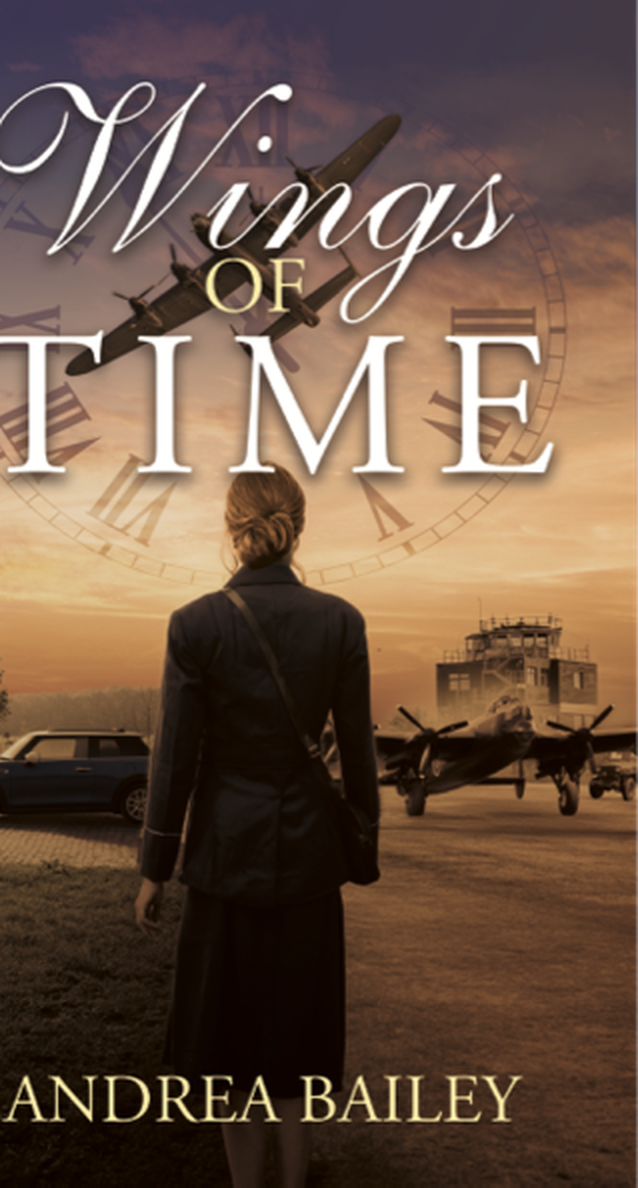
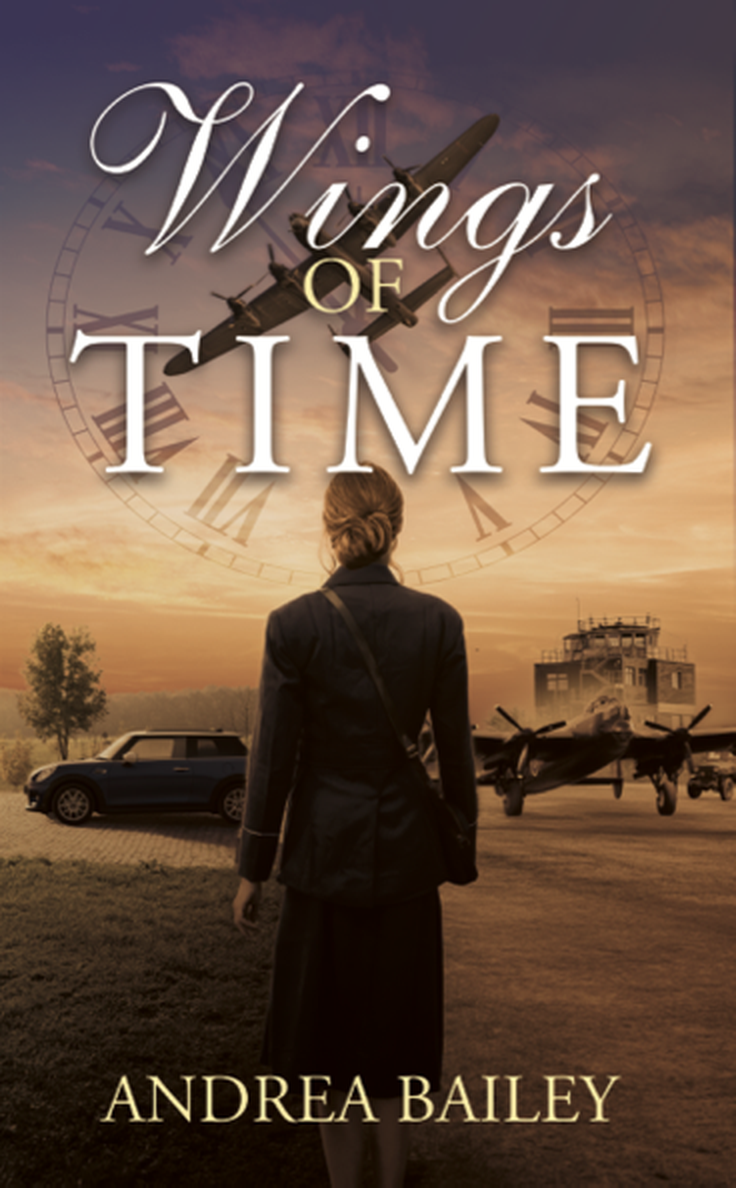
Show full book cover and remove plane illustrations
The hero cover image was a center crop that clipped the title and
artwork edges; re-extracted the full front cover from the wraparound.
Also removed the bomber and distant plane from the blurb background.

Generated with [Devin](https://devin.ai)

diff --git a/wings-of-time/app/components/AirfieldScene.tsx b/wings-of-time/app/components/AirfieldScene.tsx
@@ -2,32 +2,6 @@ import type { ReactNode } from "react";
 
 type Variant = "airfield" | "swirls" | "wing" | "feathers";
 
-const bomber = (
-  <g transform="translate(430 40) scale(1.1)">
-    <path d="M40 62 C70 52 200 48 300 50 C330 51 345 56 348 60 C345 64 330 69 300 70 C200 74 70 70 40 66 Z" />
-    <ellipse cx="310" cy="50" rx="16" ry="6" />
-    <path d="M120 55 L60 10 L75 8 L150 48 Z" />
-    <path d="M150 70 L75 110 L60 108 L120 63 Z" />
-    <rect x="95" y="30" width="18" height="10" rx="4" transform="rotate(-32 104 35)" />
-    <rect x="115" y="22" width="18" height="10" rx="4" transform="rotate(-32 124 27)" />
-    <rect x="95" y="84" width="18" height="10" rx="4" transform="rotate(32 104 89)" />
-    <rect x="115" y="92" width="18" height="10" rx="4" transform="rotate(32 124 97)" />
-    <path d="M48 58 L30 40 L40 38 L56 54 Z" />
-    <path d="M52 66 L34 82 L28 80 L44 62 Z" />
-    <path d="M52 60 L28 56 L28 60 L52 64 Z" />
-  </g>
-);
-
-const distantPlane = (
-  <g transform="translate(120 90) scale(0.45)">
-    <path d="M40 62 C70 52 200 48 300 50 C330 51 345 56 348 60 C345 64 330 69 300 70 C200 74 70 70 40 66 Z" />
-    <path d="M120 55 L60 10 L75 8 L150 48 Z" />
-    <path d="M150 70 L75 110 L60 108 L120 63 Z" />
-    <path d="M48 58 L30 40 L40 38 L56 54 Z" />
-    <path d="M52 66 L34 82 L28 80 L44 62 Z" />
-  </g>
-);
-
 const treeline = (
   <path d="M0 260 L0 220 L18 228 L30 205 L45 222 L62 198 L78 220 L95 208 L110 226 L128 202 L145 224 L160 210 L178 228 L195 200 L212 222 L230 212 L248 230 L265 204 L282 226 L300 214 L318 232 L335 206 L352 228 L370 216 L388 234 L405 208 L422 230 L440 218 L458 236 L475 210 L492 232 L510 220 L528 238 L545 212 L562 234 L580 222 L598 240 L615 214 L632 236 L650 224 L668 242 L685 216 L702 238 L720 226 L738 244 L755 218 L772 240 L790 228 L808 246 L825 220 L842 242 L860 230 L878 248 L895 222 L912 244 L930 232 L948 250 L965 224 L982 246 L1000 234 L1018 252 L1035 226 L1052 248 L1070 236 L1088 254 L1105 228 L1122 250 L1140 238 L1158 256 L1175 230 L1190 246 L1200 240 L1200 260 Z" />
 );
@@ -118,8 +92,6 @@ const feathers = (
 const variants: Record<Variant, ReactNode> = {
   airfield: (
     <>
-      {bomber}
-      {distantPlane}
       {treeline}
       {controlTower}
     </>

diff --git a/wings-of-time/app/page.tsx b/wings-of-time/app/page.tsx
@@ -24,7 +24,7 @@ export default function Home() {
                   <Image
                     src="/cover-front.png"
                     alt="Wings of Time book cover by Andrea Bailey"
-                    width={638}
+                    width={736}
                     height={1188}
                     className="rounded-sm"
                     priority
